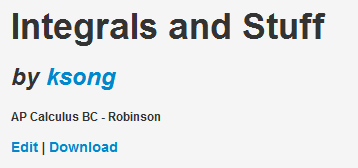
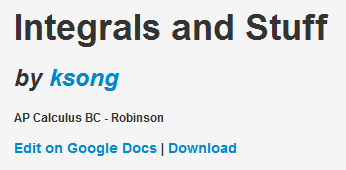
"edit on google docs"

diff --git a/templates/guide_page.html b/templates/guide_page.html
@@ -21,7 +21,7 @@
 					<h3><em>by <a href="/user/{{ result.user_created }}">{{ result.user_created }}</a></em></h3>
 					<h6>{{ result.subject }} - {{ result.teacher }}</h6> 
 					<h5>
-						<a href="{{ result.edit_link }}" target="_blank">Edit</a> 
+						<a href="{{ result.edit_link }}" target="_blank">Edit on Google Docs</a> 
 						 |  
 						<a href="{{ dl_link }}">Download</a>
 					</h5>
